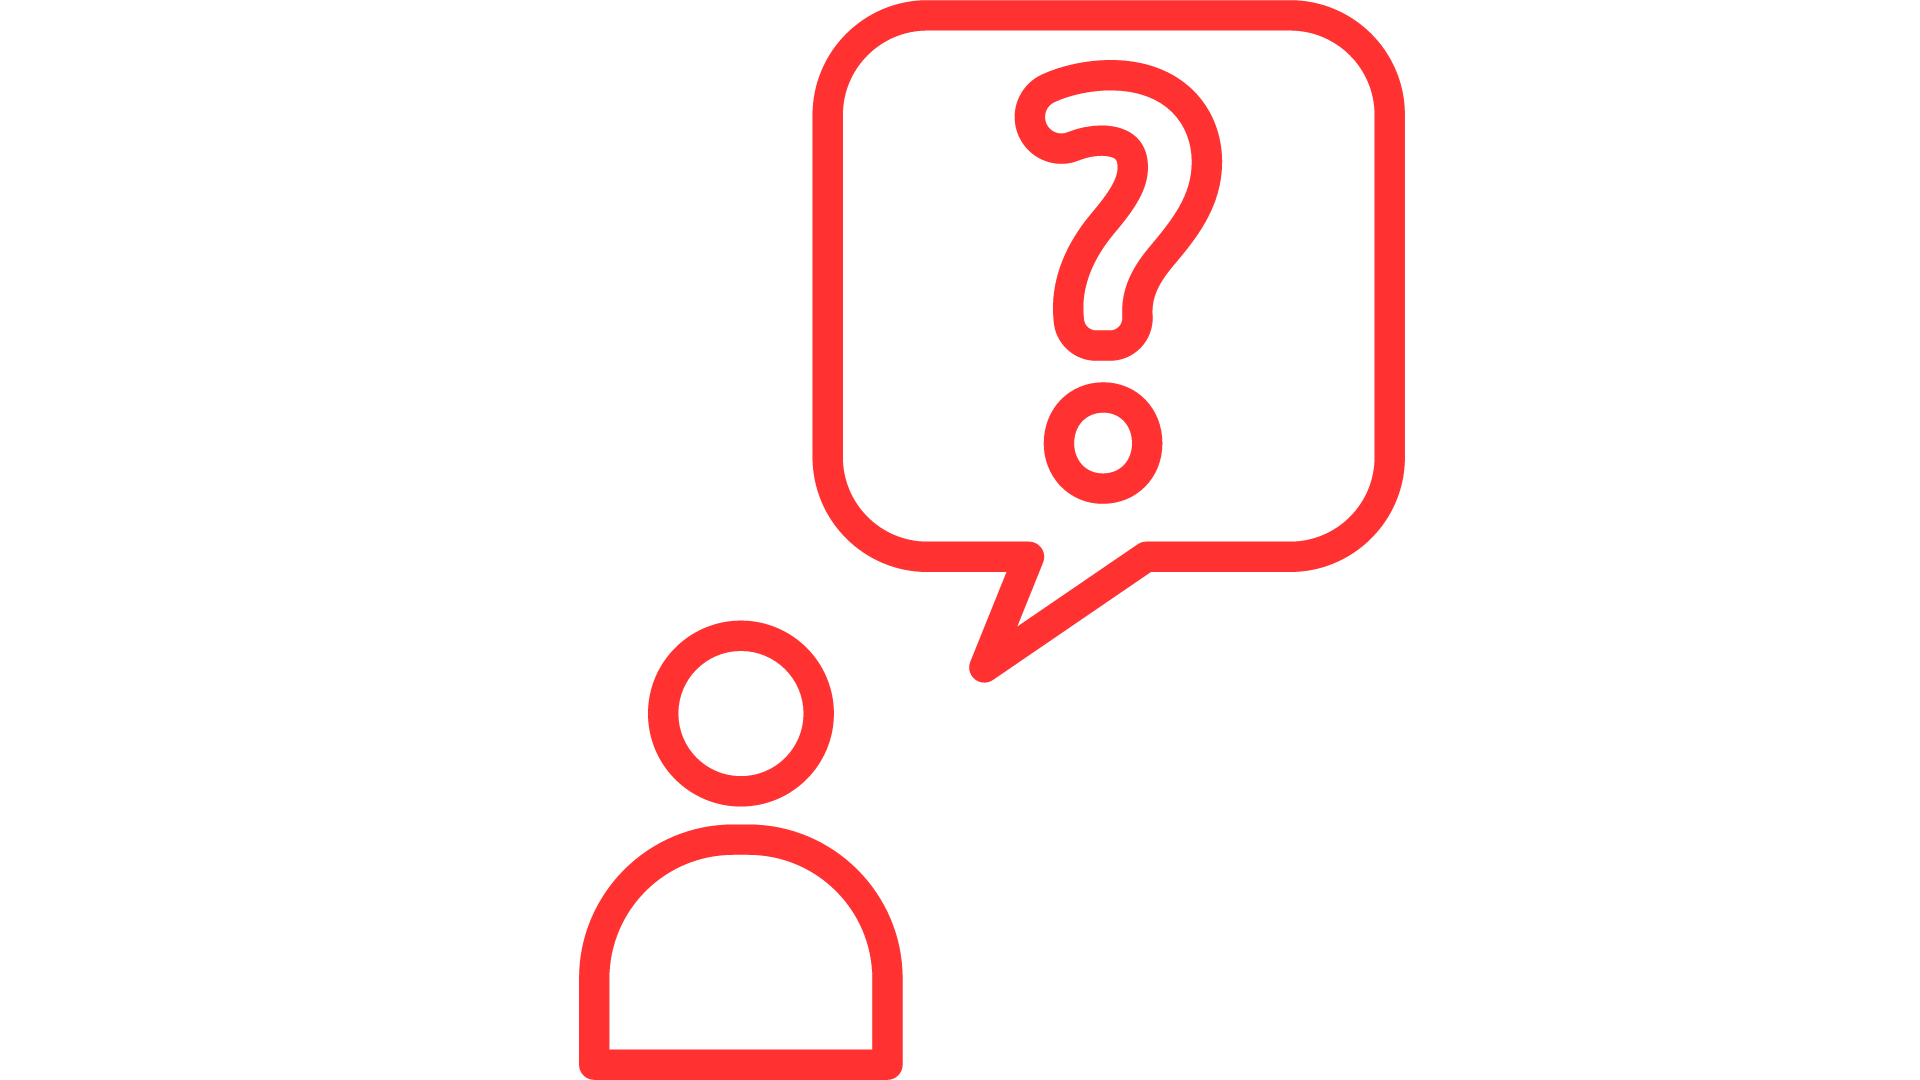
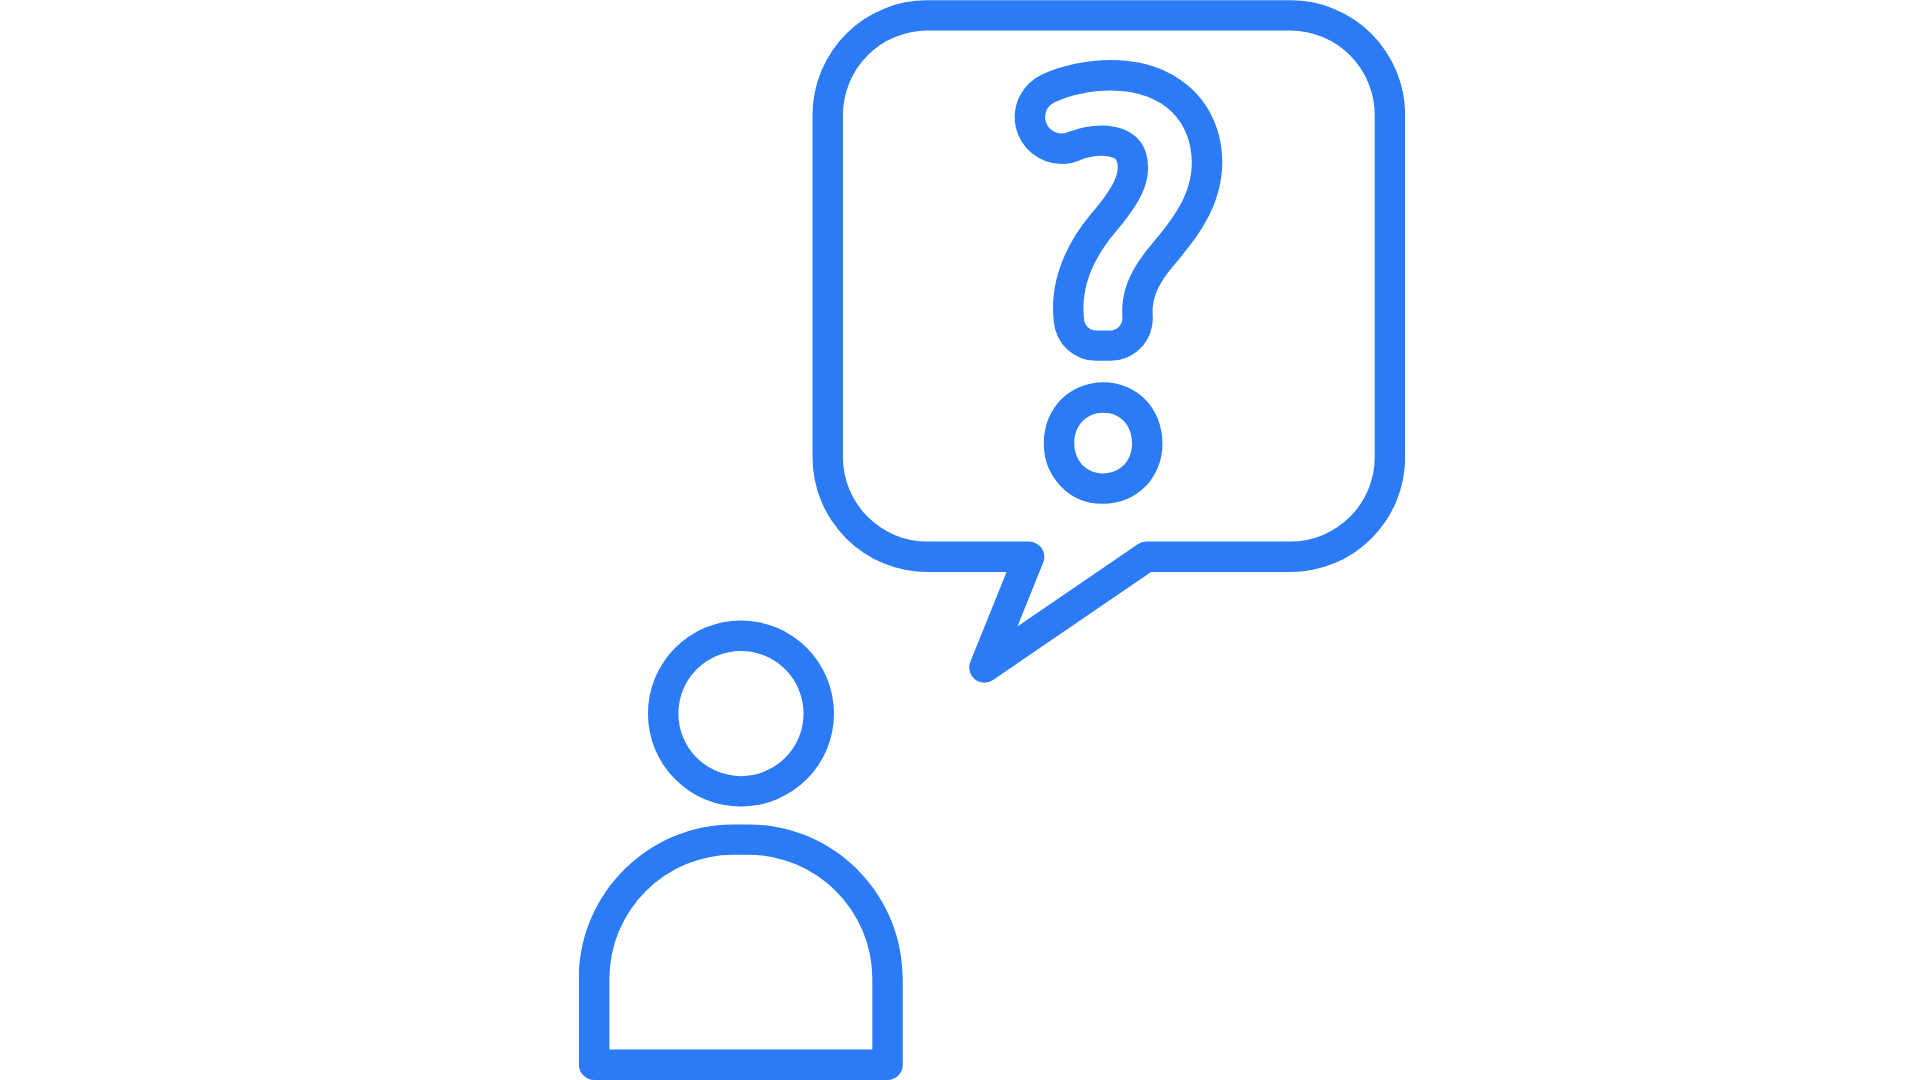
Ajuda is finished
Required social media links

Changed region(s): [[0.4062, 0.0, 0.75, 0.6417], [0.2812, 0.55, 0.4688, 1.0]]

diff --git a/src/pages/Ajuda/Ajuda.module.scss b/src/pages/Ajuda/Ajuda.module.scss
@@ -1,40 +1,88 @@
-.back{
+.back {
+  width: 100%;
+  height: 100vh;
+  display: flex;
+  justify-content: center;
+  align-items: center;
+  background-color: rgb(238, 238, 238);
+}
+.container {
+  width: 75%;
+  height: 75vh;
+  display: flex;
+  box-shadow: 5px 5px 10px rgba(0, 0, 0, 0.212);
+  border-radius: 10px;
+  background-color: white;
+  justify-content: space-between;
+  align-items: center;
+  flex-direction: row;
+  padding: 1rem 1rem;
+}
+.br {
+  width: 2px;
+  height: 90%;
+  border-radius: 70%;
+  background-color: #505050;
+  opacity: 0.3;
+}
+.startBox {
+  width: 50%;
+  height: 100%;
+  display: flex;
+
+  align-items: center;
+  position: relative;
+  padding: 1rem 1rem;
+  &__img {
     width: 100%;
-    height: 100vh;
-    display: flex;
-    justify-content: center;
-    align-items: center;
-    background-color: rgb(238, 238, 238);
+  }
 }
-.container{
-    width: 75%;
-    height: 75vh;
-    display: flex; 
-    box-shadow: 5px 5px 10px rgba(0, 0, 0, .212);
-    border-radius: 10px;
-    background-color: white;
-    justify-content: space-between;
-    align-items: center;
-    flex-direction: row;
-    padding: 1rem 1rem;
+.comeback {
+  position: absolute;
+  display: flex;
+  align-self: flex-start;
+  border-radius: 50%;
+  cursor: pointer;
+  padding: 2px 2px;
 }
-.br{
-    width: 2px;
-    height: 90%;
-    border-radius: 70%;
-    background-color: rgba(168, 166, 166, 0.7);
+.comeback svg {
+  color: #505050;
 }
-.startBox{
-    width: 50%;
-    height: 100%;
-    display: flex;
-    justify-content: center;
-    align-items: center;
+.comeback:hover {
+  background-color: rgb(199, 199, 199);
 }
-.endBox{
-    width: 50%;
-    height: 100%;
-    display: flex;
-    justify-content: center;
-    align-items: center;
+.endBox {
+  width: 50%;
+  height: 100%;
+  display: flex;
+  justify-content: center;
+  align-items: center;
+  flex-direction: column;
+  gap: 1rem;
+
+  &__title {
+    font-family: "Roboto", sans-serif;
+    color: #2b7bf6;
+    font-size: 40px;
+    font-weight: 900;
+    text-shadow: 2px 2px #dbdbdb;
+  }
+  &__subtitle {
+    font-size: larger;
+    font-family: cursive;
+    color: #505050;
+  }
+}
+.socialMedias {
+  display: flex;
+  padding: 2rem 0rem;
+  gap: 25px;
+  margin-top: 2%;
+}
+.socialMedias svg{
+    cursor: pointer;
+}
+
+.socialMedias svg:hover{
+    opacity: 0.6;
 }

diff --git a/src/components/Footer/index.tsx b/src/components/Footer/index.tsx
@@ -1,0 +1,43 @@
+import styles from "./Footer.module.scss";
+import logo from "../../assets/logo.png";
+import { BiCommentError, BiCode } from "react-icons/bi";
+import { Link } from "react-router-dom";
+
+export default function Footer() {
+  return (
+    <footer className={styles.back}>
+      <div className={styles.container}>
+        <div className={styles.left}>
+          <img src={logo} alt="" className={styles.left__img} />
+        </div>
+        <div className={styles.box}>
+          <div className={styles.cardTitle}>
+            <h1 className={styles.cardTitle__title}> QUER SABER MAIS?</h1>
+          </div>
+          <div className={styles.cardText}>
+            <h1 className={styles.cardText__text}>
+              AdotaLp é um programa criado em prol do bem estar dos animais,
+              fomentando os laços do dono e de seu pet! Vamos juntos
+              conscientizar as pessoas sobre como cuidar dos seus animais, vamos
+              transformar esse mundo um lugar melhor para os animais!
+            </h1>
+          </div>
+          <div className={styles.boxButton}>
+            <Link to={"/desenvolvedores"}>
+              <div className={styles.button}>
+                <BiCode size={"25px"} />
+                <h1 className={styles.button__text}> Desenvolvedores </h1>
+              </div>
+            </Link>
+            <Link to={"/ajuda"}>
+              <div className={styles.button}>
+                <BiCommentError size={"25px"} />
+                <h1 className={styles.button__text}>Central de Ajuda</h1>
+              </div>
+            </Link>
+          </div>
+        </div>
+      </div>
+    </footer>
+  );
+}

diff --git a/src/pages/Ajuda/index.tsx b/src/pages/Ajuda/index.tsx
@@ -1,0 +1,34 @@
+import ajuda from "../../assets/ajuda/Ajuda.png";
+import styles from "./Ajuda.module.scss";
+import { IoIosArrowRoundBack } from "react-icons/io";
+import { Link } from "react-router-dom";
+import { BsFacebook } from "react-icons/bs";
+import { MdEmail } from "react-icons/md";
+import { BsInstagram } from "react-icons/bs";
+
+export default function Ajuda() {
+  return (
+    <div className={styles.back}>
+      <div className={styles.container}>
+        <div className={styles.startBox}>
+          <img src={ajuda} alt="" className={styles.startBox__img} />
+          <div className={styles.comeback}>
+            <Link to={"/"}>
+              <IoIosArrowRoundBack size={"35px"} />
+            </Link>
+          </div>
+        </div>
+        <div className={styles.br}></div>
+        <div className={styles.endBox}>
+          <h1 className={styles.endBox__title}>ALGUMA DÚVIDA?</h1>
+          <h2 className={styles.endBox__subtitle}>Entre em contato conosco:</h2>
+          <div className={styles.socialMedias}>
+            <BsFacebook size={"70px"} style={{ color: "#2b7bf6" }} />
+            <MdEmail size={"80px"} style={{ color: "#2b7bf6"}} />
+            <BsInstagram size={"70px"} style={{color: "#2b7bf6"}}/>
+          </div>
+        </div>
+      </div>
+    </div>
+  );
+}

diff --git a/src/pages/Home/index.tsx b/src/pages/Home/index.tsx
@@ -1,9 +1,9 @@
-import Toolbar from "../../components/Toolbar/toolbar";
+import Toolbar from "../../components/Toolbar";
 import styles from "./Home.module.scss";
 import Banner from "../../assets/banner2.png";
 // import AnimalDados from "../../dados/animais.json";
 import AnimalDados from "../../dados/animais";
-import Footer from "../../components/Footer/footer";
+import Footer from "../../components/Footer";
 
 export default function Home() {
   return (
@@ -15,7 +15,8 @@ export default function Home() {
         <div className={styles.bannerBox}>
           <img src={Banner} alt="" className={styles.bannerBox__img} />
           <div className={styles.bannerBox__text}>
-            BEM-VINDO!
+             <h1 className={styles.h1}>Bem-Vindo</h1>
+             <h1 className={styles.h2}>O amor não pode ser comprado, mas pode ser adotado!</h1>
           </div>
         </div>
      

diff --git a/src/pages/Home/Home.module.scss b/src/pages/Home/Home.module.scss
@@ -1,3 +1,5 @@
+@import url('https://fonts.googleapis.com/css2?family=Yellowtail&display=swap');
+
 
 .back{
     height: 100%;
@@ -5,17 +7,36 @@
     background-color: white;
 }
 .bannerBox{
+    position: relative;
     width: 100%;
     display: flex;
-    justify-content: center;
     align-items: center;
+    justify-content: center;
+    text-align: center;
+   
     &__img{
         width: 100%;
     }
     &__text{
         display: flex;
-        position: relative;
+        position: absolute;
+
+        flex-direction: column;
+        gap: 10px;
     }
+}
+.h1{
+    color: white;
+    font-family: 'Yellowtail', cursive;
+    font-size: 100px;
+    opacity: 0.8;
+    font-weight: 900;
+}
+.h2{
+    color: white;
+    font-family: 'Zeyada', cursive;
+    font-size: 40px;
+    opacity: 0.8;
 }
 
 .adoteContainer{

diff --git a/src/index.tsx b/src/index.tsx
@@ -1,14 +1,14 @@
 import React, { Children } from "react";
 import ReactDOM from "react-dom/client";
 import "./index.css";
-import Home from "./pages/Home/home";
-import Cadastro from "./pages/Cadastro/cadastro";
-import ErrorPage from "./pages/ErrorPage/errorpage";
+import Home from "./pages/Home";
+import Cadastro from "./pages/Cadastro";
+import ErrorPage from "./pages/ErrorPage";
 
 // 1- configurando o router
 import { createBrowserRouter, RouterProvider } from "react-router-dom";
-import Desenvolvedores from "./pages/Desenvolvedores/desenvolvedores";
-import Ajuda from "./pages/Ajuda/ajuda";
+import Desenvolvedores from "./pages/Desenvolvedores";
+import Ajuda from "./pages/Ajuda";
 
 
 

diff --git a/src/pages/Cadastro/index.tsx b/src/pages/Cadastro/index.tsx
@@ -1,7 +1,7 @@
 import styles from "./Cadastro.module.scss";
 import cat from "../../assets/cadastro-login/Cat.png";
 import ImageInput from "./ImageInput/imageinput";
-import Toolbar from "../../components/Toolbar/toolbar";
+import Toolbar from "../../components/Toolbar";
 
 export default function Cadastro() {
   return (

diff --git a/src/pages/Desenvolvedores/index.tsx b/src/pages/Desenvolvedores/index.tsx
@@ -1,4 +1,4 @@
-import Toolbar from "../../components/Toolbar/toolbar";
+import Toolbar from "../../components/Toolbar";
 import styles from "./Desenvolvedores.module.scss";
 import Marcela from "../../assets/desenvolvedores/Marcela.png";
 import Nickolas from "../../assets/desenvolvedores/nickolas.png";

diff --git a/src/components/Footer/Footer.module.scss b/src/components/Footer/Footer.module.scss
@@ -78,7 +78,7 @@
     &__text{
         color: white;
         font-family: 'Zeyada', cursive;
-        text-decoration: none;
+        text-decoration: underline #2d7bf6;
     }
 }
 .button svg{
